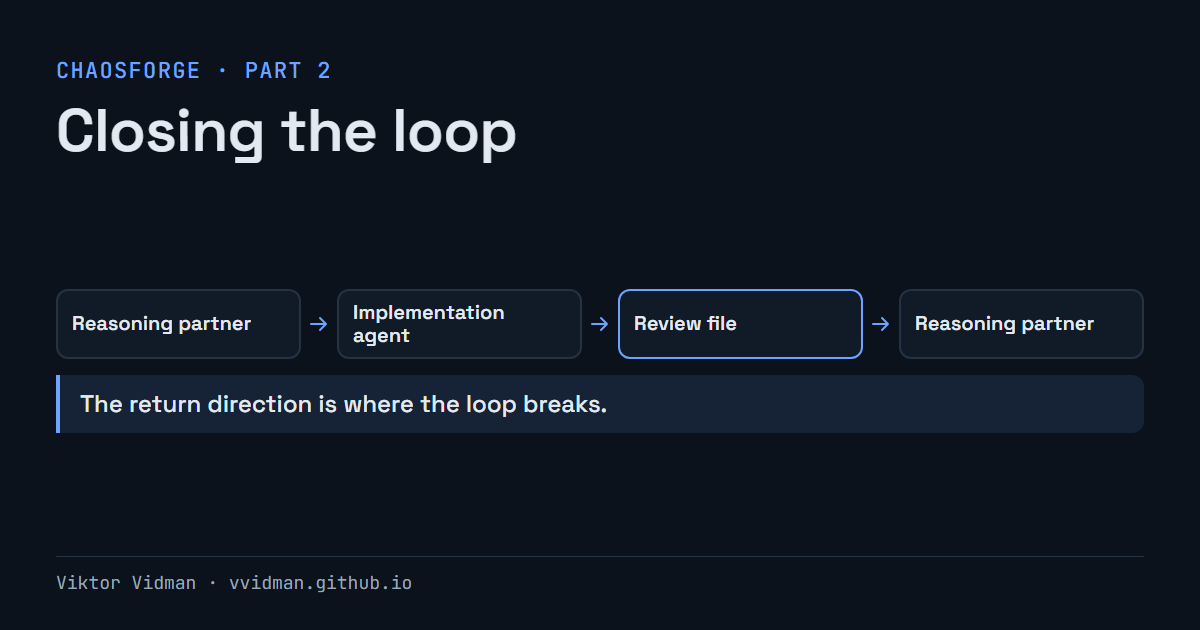
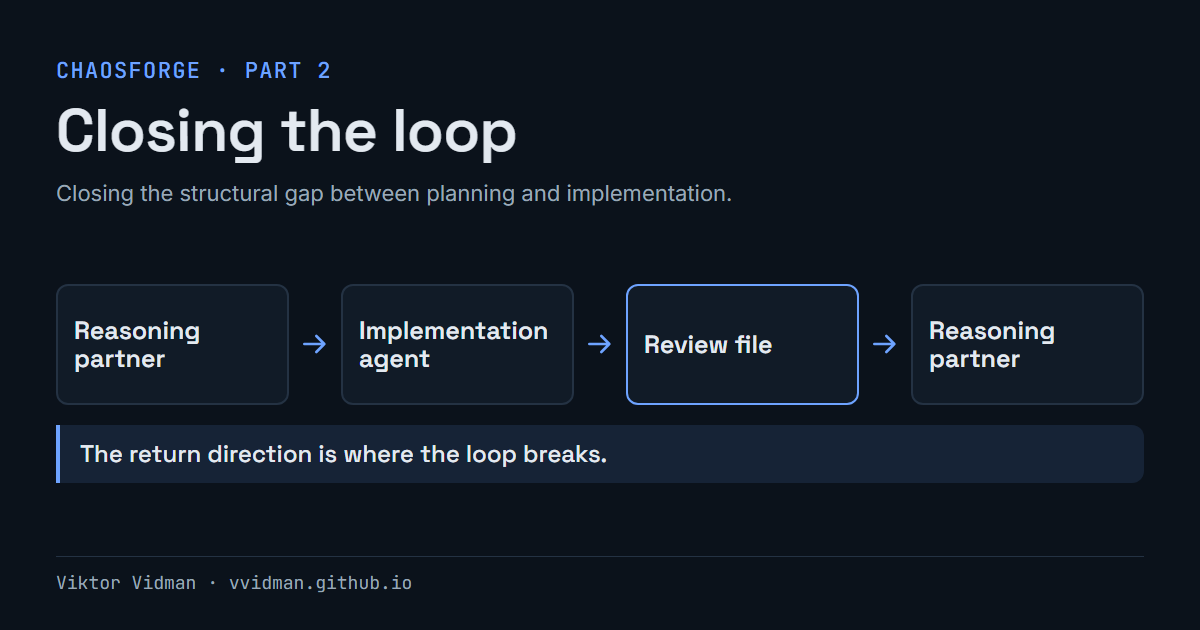
content: rebalance two infographics

Changed region(s): [[0.0308, 0.4524, 0.9558, 0.7841], [0.0308, 0.3016, 0.6167, 0.3317]]

diff --git a/infographics/src/chaosforge-closing-the-loop-og.html b/infographics/src/chaosforge-closing-the-loop-og.html
@@ -4,14 +4,20 @@
 <meta charset="utf-8">
 <title>chaosforge-closing-the-loop og</title>
 <link rel="stylesheet" href="../_shared/infographic.css">
+<style>
+.ig-flow .ig-node { padding: 30px 16px; display: flex; flex-direction: column; justify-content: center; }
+.ig-flow .ig-node-title { font-size: 25px; }
+.ig-callout { font-size: 28px; padding: 20px 24px; }
+</style>
 </head>
 <body>
 <div class="ig ig-og">
   <div class="ig-eyebrow">ChaosForge · Part 2</div>
   <h1 class="ig-title">Closing the loop</h1>
+  <p class="ig-sub">Closing the structural gap between planning and implementation.</p>
 
-  <div class="ig-body" style="gap:16px">
-    <div class="ig-flow is-compact">
+  <div class="ig-body" style="gap:20px">
+    <div class="ig-flow">
       <div class="ig-node"><div class="ig-node-title">Reasoning partner</div></div>
       <div class="ig-arrow"><svg viewBox="0 0 24 24" fill="none" stroke="currentColor" stroke-width="2" stroke-linecap="round" stroke-linejoin="round"><path d="M4 12h15M13 6l6 6-6 6"/></svg></div>
       <div class="ig-node"><div class="ig-node-title">Implementation agent</div></div>

diff --git a/infographics/src/inferrouter-02-square.html b/infographics/src/inferrouter-02-square.html
@@ -4,6 +4,17 @@
 <meta charset="utf-8">
 <title>inferrouter-02 square</title>
 <link rel="stylesheet" href="../_shared/infographic.css">
+<style>
+.ig-body { justify-content: space-evenly; padding-top: 0; }
+.ig-flow .ig-node { padding: 32px 26px; }
+.ig-flow .ig-node-title { font-size: 32px; }
+.ig-flow .ig-node-text { font-size: 22px; margin-top: 10px; }
+.ig-flow .ig-icon { width: 48px; height: 48px; margin-bottom: 18px; }
+.ig-card { padding: 30px 26px; }
+.ig-card-title.is-mono { font-size: 22px; }
+.ig-card-body { font-size: 22px; margin-top: 14px; }
+.ig-callout { font-size: 36px; padding: 30px 34px; }
+</style>
 </head>
 <body>
 <div class="ig ig-square">

diff --git a/infographics/src/chaosforge-closing-the-loop.notes.md b/infographics/src/chaosforge-closing-the-loop.notes.md
@@ -6,6 +6,7 @@ Source: content/posts/chaosforge-02-closing-the-loop.md (slug `posts/chaosforge-
 | Eyebrow | ChaosForge · Part 2 | front matter |
 | Title | Closing the loop | title |
 | Subtitle (square) | Closing the structural gap between planning and implementation. | description: "closing the structural gap between planning and implementation" |
+| Subtitle (og) | Closing the structural gap between planning and implementation. | same as square subtitle (description) |
 | Node 1 | **Reasoning partner** — Plans and writes the spec. | "the AI used for planning, architecture decisions, and design iteration"; full-loop diagram "write spec → docs/specs/feature-name.md" |
 | Node 2 | **Implementation agent** — Implements, then runs /review-ready. | "The AI used to turn plans into code"; diagram "implement └─► /review-ready" |
 | Node 3 (key) | **Review file + progress** — docs/review/ and docs/progress/ updated. | diagram "docs/review/feature-name-review.md" and "docs/progress/ updated" |
